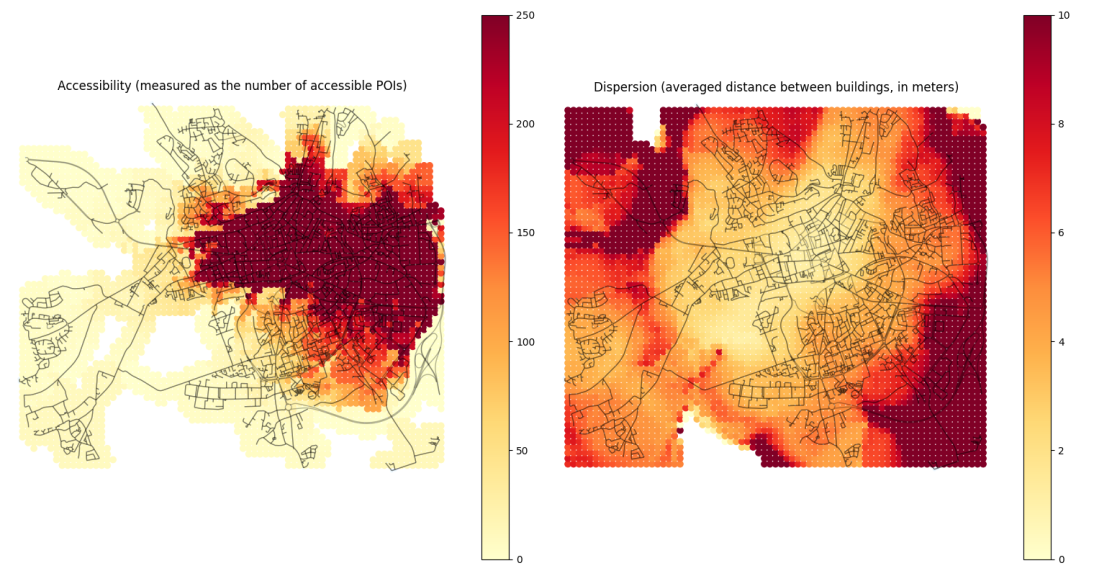
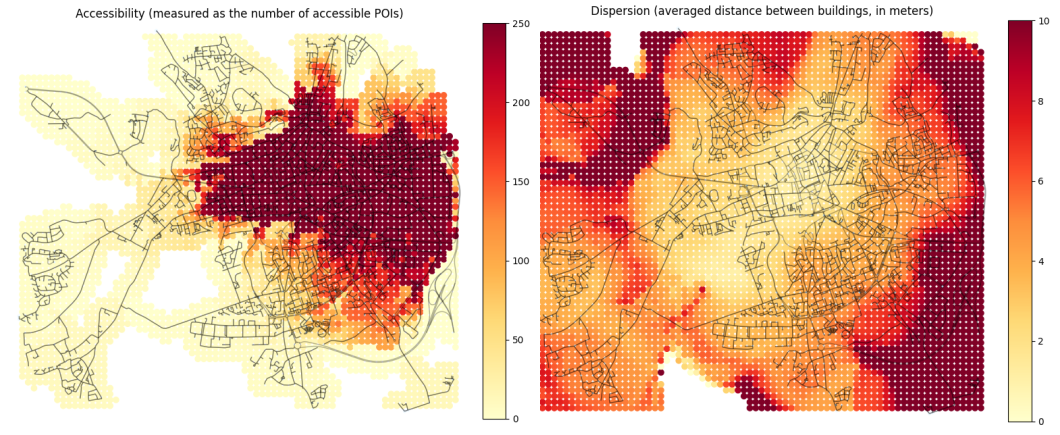
[readme] update example images with respect to geopandas colormap new design

diff --git a/urbansprawl/tasks.py b/urbansprawl/tasks.py
@@ -30,6 +30,7 @@ import zipfile
 import geopandas as gpd
 import luigi
 from luigi.format import MixedUnicodeBytes
+from mpl_toolkits.axes_grid1 import make_axes_locatable
 import numpy as np
 import osmnx
 import pandas as pd
@@ -861,9 +862,11 @@ class PlotLandUseMix(luigi.Task):
                                    edge_color='black',
                                    edge_alpha=0.3,
                                    node_alpha=0.1)
+        divider = make_axes_locatable(ax)
+        cax = divider.append_axes("right", size="5%", pad=0.2)
         ax.set_title(f"{self.plotted_feature} kernel density (0: low, 1: high)")
         grid_land_use.plot(self.plotted_feature, cmap='YlOrRd', ax=ax,
-                           legend=True, vmin=0, vmax=1)
+                           cax=cax, legend=True, vmin=0, vmax=1)
         fig.tight_layout()
         fig.savefig(self.output().path)
 
@@ -1038,10 +1041,13 @@ class PlotAccessibility(luigi.Task):
                                    edge_color='black',
                                    edge_alpha=0.3,
                                    node_alpha=0.1)
+        divider = make_axes_locatable(ax)
+        cax = divider.append_axes("right", size="5%", pad=0.2)
         ax.set_title("Accessibility (measured as the number of accessible POIs)")
         grid_accessibility.plot("accessibility",
                                 cmap='YlOrRd',
                                 ax=ax,
+                                cax=cax,
                                 legend=True,
                                 vmin=0,
                                 vmax=self.fixed_distance_max_num_activities)
@@ -1196,9 +1202,11 @@ class PlotDispersion(luigi.Task):
                                    edge_color='black',
                                    edge_alpha=0.3,
                                    node_alpha=0.1)
+        divider = make_axes_locatable(ax)
+        cax = divider.append_axes("right", size="5%", pad=0.2)
         ax.set_title("Dispersion (averaged distance between buildings, in meters)")
         grid_dispersion.plot("dispersion", cmap='YlOrRd', ax=ax,
-                             legend=True, vmin=0, vmax=10)
+                             cax=cax, legend=True, vmin=0, vmax=10)
         fig.tight_layout()
         fig.savefig(self.output().path)
 
@@ -1425,7 +1433,10 @@ class PlotINSEEData(luigi.Task):
             graph, fig_height=self.figsize, fig_width=self.figsize, close=False,
             show=False, edge_color='black', edge_alpha=0.15, node_alpha=0.05
         )
-        population.plot("pop_count", ax=ax, cmap='YlOrRd', legend=True, vmin=0)
+        divider = make_axes_locatable(ax)
+        cax = divider.append_axes("right", size="5%", pad=0.2)
+        population.plot("pop_count", ax=ax, cax=cax,
+                        cmap='YlOrRd', legend=True, vmin=0)
         ax.set_title("INSEE gridded population (in inhabitants)", fontsize=15)
         fig.tight_layout()
         fig.savefig(self.output().path)
